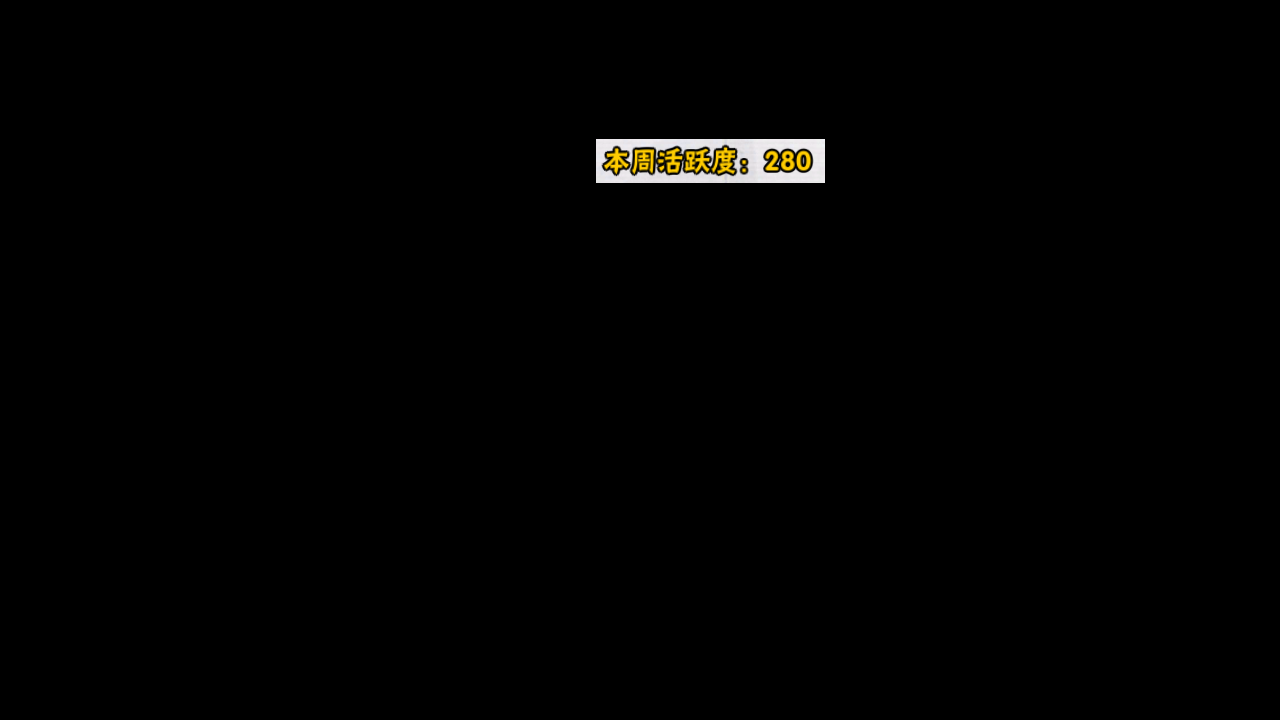
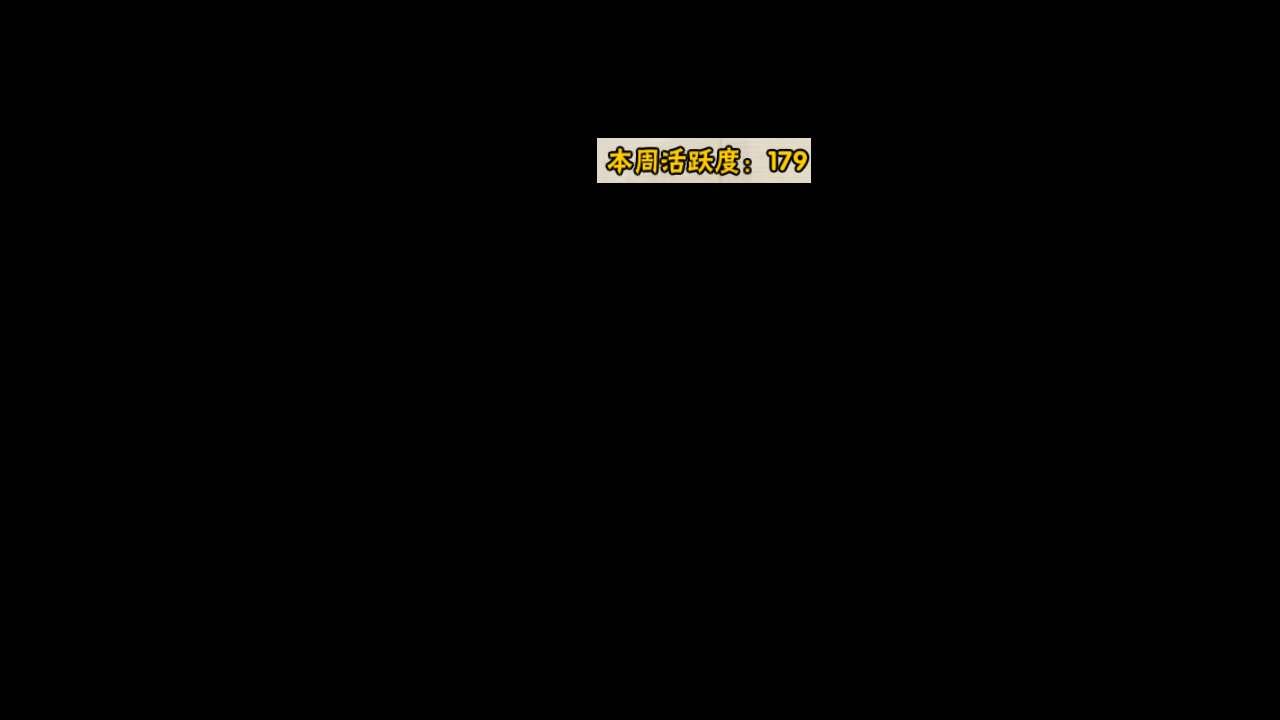
添加忍法帖奖励领取设置

Changed region(s): [[0.4688, 0.1833, 0.6562, 0.275]]

diff --git a/tasks/battle_order/weekly_reward.py b/tasks/battle_order/weekly_reward.py
@@ -5,8 +5,9 @@ from tasks.base.ui import UI
 from tasks.battle_order.assets.assets_battle_order_reward import *
 from tasks.battle_order.ui.switch import BATTLE_ORDER_TAB
 from module.logger import logger
+
+
 class BattleOrderWeeklyReward(UI):
-    current_progress=0
     def run(self):
         if self.config.stored.BattleOrderActivityProgress.is_expired():
             self.config.stored.BattleOrderActivityProgress.clear()
@@ -15,63 +16,86 @@ class BattleOrderWeeklyReward(UI):
 
         self.device.click_record_clear()
         self.handle_battle_order_weekly_reward()
-        
+
         return True
+
     def handle_battle_order_weekly_reward(self):
         self.ui_ensure(page_battle_order)
-        BATTLE_ORDER_TAB.set('周活跃',main=self)
+        BATTLE_ORDER_TAB.set('周活跃', main=self)
         self._claim_weekly_reward()
-        self.config.stored.BattleOrderActivityProgress.set(self.current_progress)
+
     def _claim_weekly_reward(self):
-        checked_buttons = [  
-            BATTLE_ORDER_ACTIVE_POINTS_1_CHECKED,  
-            BATTLE_ORDER_ACTIVE_POINTS_2_CHECKED,   
-            BATTLE_ORDER_ACTIVE_POINTS_3_CHECKED,  
-            BATTLE_ORDER_ACTIVE_POINTS_4_CHECKED,  
-            BATTLE_ORDER_ACTIVE_POINTS_5_CHECKED  
-        ]  
-        progress = [50, 100, 150, 200, 300]  
-        click_timer=Timer(1).start()
-        current_points=self._get_current_activity_points()
+        checked_buttons = [
+            BATTLE_ORDER_ACTIVE_POINTS_1_CHECKED,
+            BATTLE_ORDER_ACTIVE_POINTS_2_CHECKED,
+            BATTLE_ORDER_ACTIVE_POINTS_3_CHECKED,
+            BATTLE_ORDER_ACTIVE_POINTS_4_CHECKED,
+            BATTLE_ORDER_ACTIVE_POINTS_5_CHECKED,
+        ]
+        thresholds = [50, 100, 150, 200, 300]
+
+        # 从存档恢复上次的领取进度
+        self.current_progress = self.config.stored.BattleOrderActivityProgress.value
+        logger.attr("RestoredProgress", self.current_progress)
+
+        BATTLE_ORDER_WEEKLY_REWARD_CLAIM.load_search(BATTLE_ORDER_WEEKLY_REWARD_AREA.area)
+
+        click_timer = Timer(1).start()
 
         for _ in self.loop():
-            if self.appear_then_click(BATTLE_ORDER_WEEKLY_REWARD_CLAIM_SUCCESS,interval=0):
+
+            if self.appear_then_click(BATTLE_ORDER_WEEKLY_REWARD_CLAIM_SUCCESS, interval=0):
                 click_timer.reset()
                 continue
-            self._get_current_progress(checked_buttons,progress)
-            if self.current_progress==progress[4]:
+
+            # 读取本周活跃度 
+            current_points = self._get_current_activity_points()
+            # 检测已领取档位
+            self._get_current_progress(checked_buttons, thresholds)
+
+            # 5档全部领完 → 退出
+            if self.current_progress >= thresholds[-1]:
+                logger.info("All 5 weekly rewards claimed")
                 break
+
             if click_timer.reached():
-                claimable = []  
-                for i, threshold in enumerate(progress):  
-                    if (self.current_progress < threshold <= current_points):  
-                        claimable.append(checked_buttons[i])
+                # 找出可领取的档位：活跃度达标 且 该档位尚未领取
+                claimable = any(
+                    self.current_progress < t <= current_points
+                    for t in thresholds
+                )
                 if claimable:
-                        self.device.click(claimable[0])
-                        click_timer.reset()
+                    self.device.click(BATTLE_ORDER_WEEKLY_REWARD_CLAIM)
+                    click_timer.reset()
                 else:
+                    # 没有可领取的档位（活跃度不够下一档，或全部领完）
+                    logger.info("No claimable reward tier")
                     break
-                    
-        
+
+        # 循环结束后保存进度
+        self.config.stored.BattleOrderActivityProgress.set(self.current_progress)
+
     def _get_current_activity_points(self) -> int:
-        
-        ocr=Digit(BATTLE_ORDER_WEEKLY_REWARD_ACTIVITY_POINTS)
-        current_points=ocr.ocr_single_line(self.device.image)
-        self.config.stored.ActivityProgressWeekly.set(current_points)
-        logger.attr("ActivityPoints",current_points)
-   
+        ocr = Digit(BATTLE_ORDER_WEEKLY_REWARD_ACTIVITY_POINTS)
+        current_points = ocr.ocr_single_line(self.device.image)
+        if current_points:
+            self.config.stored.ActivityProgressWeekly.set(current_points)
+        logger.attr("ActivityPoints", current_points)
         return current_points
-    def _get_current_progress(self,checked_buttons,thresholds) -> int:
-        current_progress = 0  
-        # 从高到低检查每个阈值
+
+    def _get_current_progress(self, checked_buttons, thresholds) -> int:
+        current_progress = 0
+        # 从高到低检查每档的 CHECKED 图标，找到已领取的最高档
         for i in range(len(thresholds) - 1, -1, -1):
-            if self.appear(checked_buttons[i]):  
+            if self.appear(checked_buttons[i]):
                 current_progress = thresholds[i]
-                break  # 找到最高的就停止
-        if current_progress>self.current_progress:
-            self.current_progress=current_progress
-        logger.attr("RewardProgress",self.current_progress)
+                break
+        if current_progress > self.current_progress:
+            self.current_progress = current_progress
+        logger.attr("RewardProgress", self.current_progress)
+
+
 if __name__ == '__main__':
-    az=BattleOrderWeeklyReward('ns',task='Alas')
+    az = BattleOrderWeeklyReward('ns', task='Alas')
     az.run()
 

diff --git a/module/config/config_generated.py b/module/config/config_generated.py
@@ -119,6 +119,7 @@ class GeneratedConfig:
 
     # Group `BattleOrder`
     BattleOrder_LikeAndShare = True
+    BattleOrder_ClaimReward = False
     BattleOrder_SCharacterFragments = '秽土长门'  # 忍战艾, 秽土解斑, 永恒佐助, 忍战樱, 九喇嘛鸣人, 死门凯, 忍战带土, 秽土柱间, 秽土鼬, 仙人兜, 秽土斑, 白面具, 秽土扉间, 百豪纲手, 秽土水门, 秽土日斩, 秽土长门, 斑, 柱间, 四代目雷影, 扉间, 神秘面具男, 须佐能乎鼬, 天道佩恩, 水门, 大蛇丸, 自来也
     BattleOrder_ACharacterFragments = '青年水门'  # 桃式显现博人, 忍战宁次, 博人传长十郎, 青年长门, 青年艾, 博人传达鲁伊, 青年水门, 忍战奇拉比, 博人传黑土, 须佐佐助, 秽土迪达拉, 博人传木叶丸, 九尾鸣人, 半蛇斗篷兜, 忍战我爱罗, 晓大蛇丸, 百豪樱, 照美冥, 鹰小队佐助, 奇拉比, 仙人鸣人, 神威卡卡西, 止水, 小南, 迪达拉, 鼬, 凯
     BattleOrder_CCharacterFragments = '左近右近'  # 左近右近, 火花, 学员鸣人, 山城青叶, 鬼童丸, 青, 萨克镫, 托斯砧

diff --git a/tasks/battle_order/assets/assets_battle_order_reward.py b/tasks/battle_order/assets/assets_battle_order_reward.py
@@ -107,10 +107,10 @@ BATTLE_ORDER_WEEKLY_REWARD_ACTIVITY_POINTS = ButtonWrapper(
     name='BATTLE_ORDER_WEEKLY_REWARD_ACTIVITY_POINTS',
     cn=Button(
         file='./assets/cn/battle_order/reward/BATTLE_ORDER_WEEKLY_REWARD_ACTIVITY_POINTS.png',
-        area=(596, 139, 825, 183),
-        search=(576, 119, 845, 203),
-        color=(184, 172, 135),
-        button=(596, 139, 825, 183),
+        area=(597, 138, 811, 183),
+        search=(577, 118, 831, 203),
+        color=(179, 164, 116),
+        button=(597, 138, 811, 183),
     ),
     en=None,
 )

diff --git a/tasks/battle_order/battle_order.py b/tasks/battle_order/battle_order.py
@@ -12,7 +12,7 @@ class BattleOrder(UI):
         from  tasks.battle_order.weekly_reward import BattleOrderWeeklyReward
         BattleOrderWeeklyReward(config=self.config, device=self.device).run()
         from  tasks.battle_order.claim import BattleOrderClaim
-        BattleOrderClaim(config=self.config, device=self.device).handle_battle_order_claim()
+        BattleOrderClaim(config=self.config, device=self.device).run()
         self.config.task_delay(server_update=True)
         self.config.task_stop()
 

diff --git a/tasks/battle_order/claim.py b/tasks/battle_order/claim.py
@@ -12,6 +12,12 @@ from tasks.battle_order.ui.switch import BATTLE_ORDER_TAB
 from module.base.button import ClickButton  
 import numpy as np
 class BattleOrderClaim(UI):
+    def run(self):
+        if not self.config.BattleOrder_ClaimReward:
+            return
+        self.handle_battle_order_claim()
+
+        
     def handle_battle_order_claim(self):
         self.device.click_record_clear()
         self.ui_ensure(page_battle_order)
